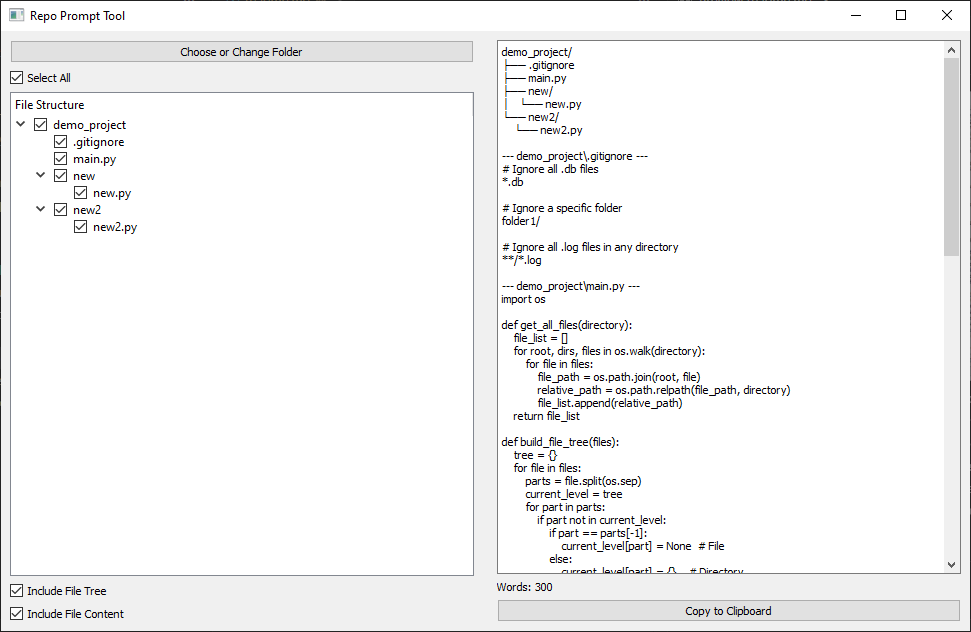
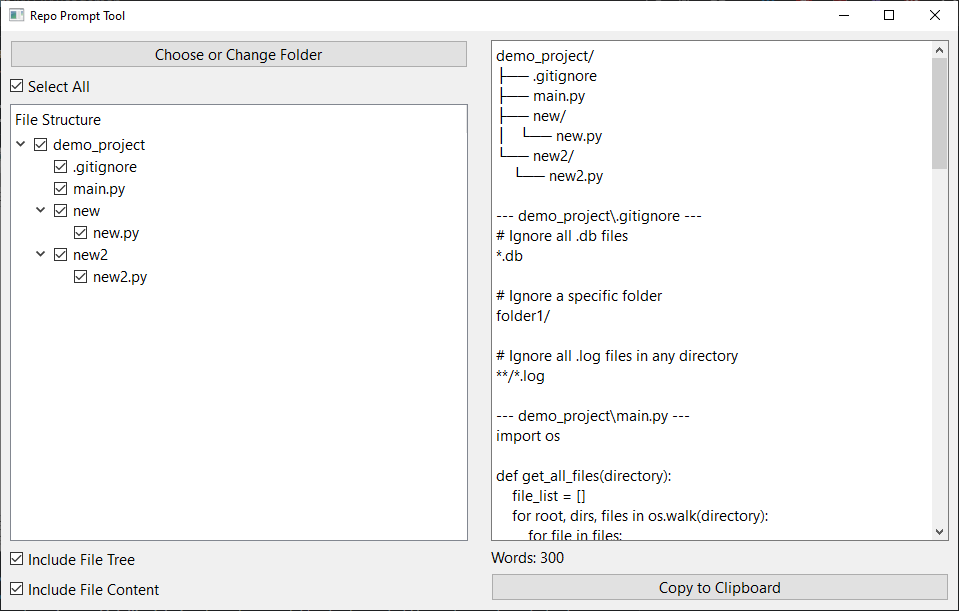
Enhance font settings for better visibility in main window

diff --git a/main_window.py b/main_window.py
@@ -11,6 +11,11 @@ from utils.settings_utils import load_settings, save_settings
 class MainWindow(QMainWindow):
     def __init__(self):
         super().__init__()
+        # ADD THESE LINES for better visibility
+        font = QApplication.font()
+        font.setPointSize(11)  # Increase from default (usually 9)
+        font.setFamily("Segoe UI")  # Modern, readable font
+        QApplication.setFont(font)
         self.setWindowTitle("Repo Prompt Tool")
         self.setGeometry(100, 100, 800, 600)
 
